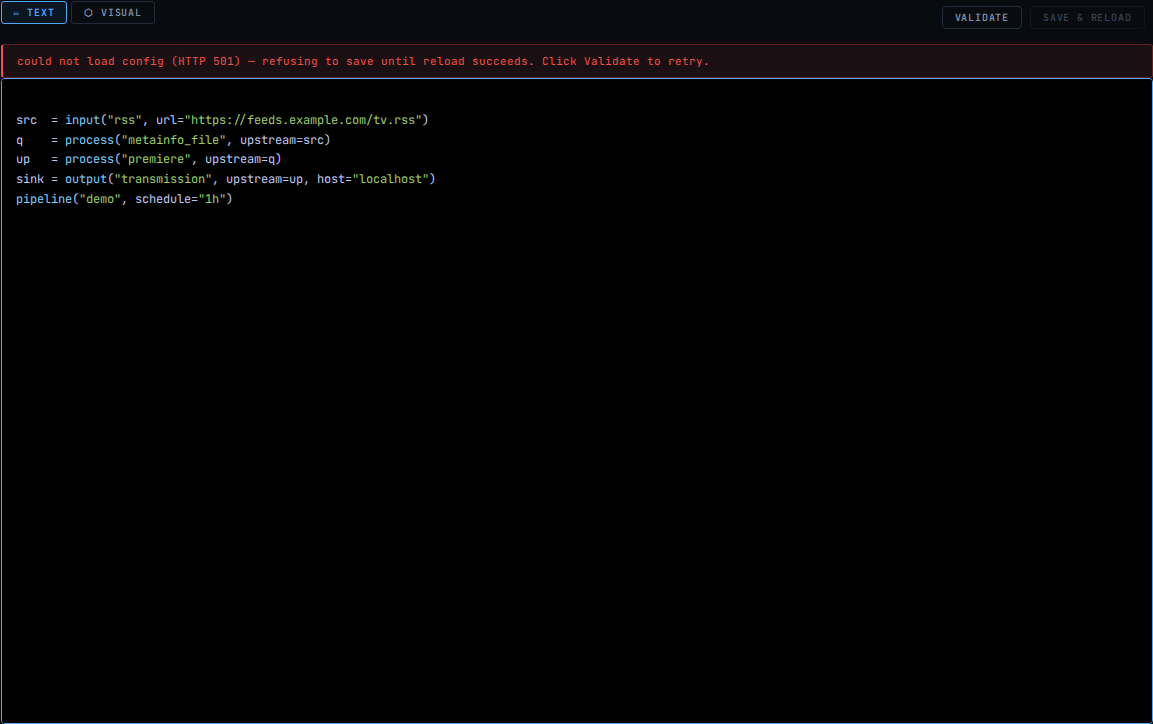
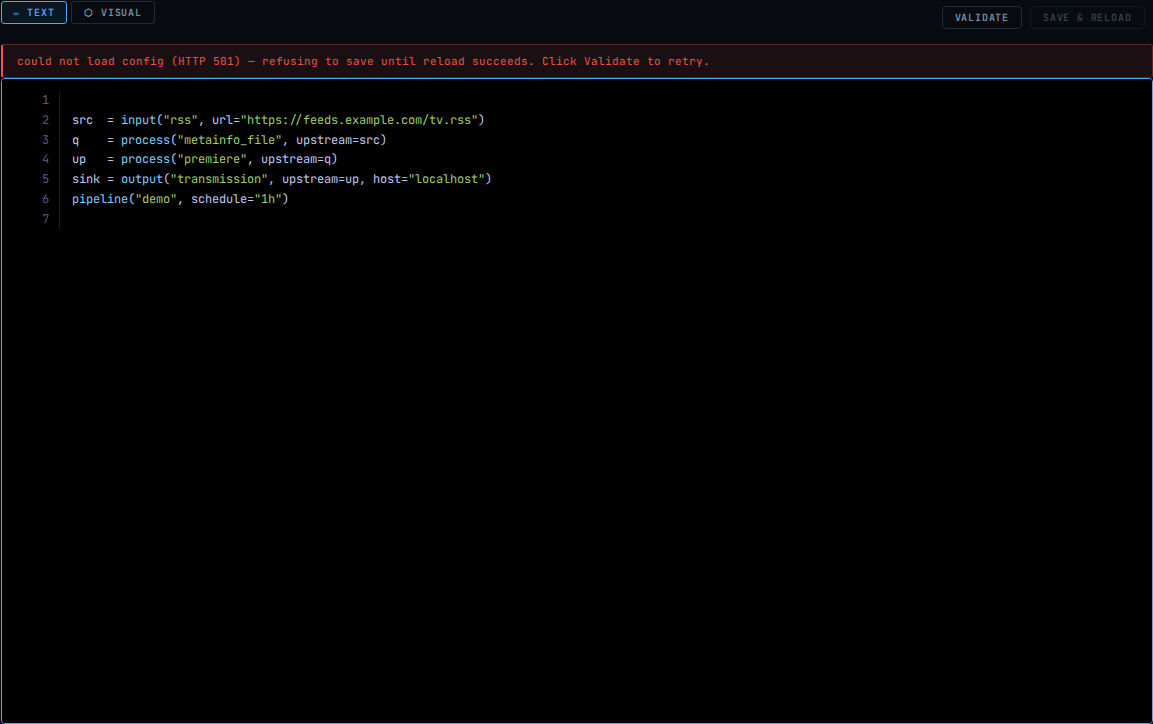
feat(web): line numbers in the config text editor
The text editor is a transparent textarea layered over a syntax-highlighted
<pre>. Render the highlight layer as one flex row per line — a right-aligned
number cell plus the highlighted code — so a line number stays pinned to its
line even when a long line soft-wraps across several visual rows (the number
sits at the top of the wrapped block, continuation lines align under the code
column). The gutter lives in the highlight layer (transparent to pointer
events, behind the textarea), so numbers are never selectable and never end
up in a copy; the textarea gets a matching left padding so the caret aligns
with the code column.

No per-keystroke measurement — wrapping alignment falls out of the flex
layout. Adds highlightStarlarkLines + tests, and regenerates the text-editor
screenshot.

Claude-Session: https://claude.ai/code/session_015UppT9Xa22dM5MgsHkwSXY

Changed region(s): [[0.0, 0.1519, 0.4059, 0.3039]]

diff --git a/internal/web/ui/tests/highlight.test.js b/internal/web/ui/tests/highlight.test.js
@@ -14,16 +14,52 @@ const src = readFileSync(join(__dir, '..', 'highlight.js'), 'utf8');
 
 // Extract the two functions we need by evaluating the source.
 // The file uses plain 'use strict' globals so we wrap it.
-let highlightStarlark, hlStarlarkLine;
+let highlightStarlark, hlStarlarkLine, highlightStarlarkLines;
 beforeAll(() => {
   const mod = new Function(
     'exports',
-    src + '\nexports.highlightStarlark = highlightStarlark;\nexports.hlStarlarkLine = hlStarlarkLine;'
+    src + '\nexports.highlightStarlark = highlightStarlark;\nexports.hlStarlarkLine = hlStarlarkLine;' +
+    '\nexports.highlightStarlarkLines = highlightStarlarkLines;'
   );
   const exports = {};
   mod(exports);
-  highlightStarlark = exports.highlightStarlark;
-  hlStarlarkLine    = exports.hlStarlarkLine;
+  highlightStarlark      = exports.highlightStarlark;
+  hlStarlarkLine         = exports.hlStarlarkLine;
+  highlightStarlarkLines = exports.highlightStarlarkLines;
+});
+
+describe('highlightStarlarkLines (line-number gutter)', () => {
+  it('emits one flex row per source line with a 1-based number', () => {
+    const html = highlightStarlarkLines('a = 1\nb = 2\nc = 3');
+    const rows = html.match(/<div class="hl-line">/g) || [];
+    expect(rows.length).toBe(3);
+    expect(html).toContain('<span class="ln">1</span>');
+    expect(html).toContain('<span class="ln">2</span>');
+    expect(html).toContain('<span class="ln">3</span>');
+  });
+
+  it('numbers a trailing empty line so it matches the textarea', () => {
+    const html = highlightStarlarkLines('x = 1\n');
+    expect((html.match(/<div class="hl-line">/g) || []).length).toBe(2);
+    expect(html).toContain('<span class="ln">2</span>');
+  });
+
+  it('keeps the highlighted code inside a .code cell', () => {
+    const html = highlightStarlarkLines('input("rss")');
+    expect(html).toContain('<span class="code">');
+    expect(html).toContain('y-builtin'); // "input" still highlighted
+  });
+
+  it('renders an empty line as an empty code cell (row height from the number)', () => {
+    const html = highlightStarlarkLines('a\n\nb');
+    expect(html).toContain('<span class="ln">2</span><span class="code"></span>');
+  });
+
+  it('escapes HTML in the code so markup in strings cannot break out', () => {
+    const html = highlightStarlarkLines('body="<img src=x>"');
+    expect(html).not.toContain('<img src=x>');
+    expect(html).toContain('&lt;img');
+  });
 });
 
 describe('highlightStarlark', () => {

diff --git a/internal/web/ui/highlight.js b/internal/web/ui/highlight.js
@@ -111,9 +111,28 @@ function hlStarlarkLine(line) {
   return out;
 }
 
+// highlightStarlarkLines renders the source as one flex row per line — a
+// right-aligned line-number cell plus the highlighted code — so line numbers
+// stay pinned to their line even when a long line soft-wraps across several
+// visual rows (the number sits at the top of the wrapped block). Because the
+// gutter lives inside the highlight layer (which is transparent to pointer
+// events and behind the textarea), the numbers are never selectable and never
+// end up in a copy. The matching left padding on the textarea keeps the caret
+// aligned with the code column — see .editor-ta padding-left in style.css.
+function highlightStarlarkLines(text) {
+  _inTriple = false; _tripleQ = '';
+  const lines = text.split('\n');
+  let out = '';
+  for (let i = 0; i < lines.length; i++) {
+    out += '<div class="hl-line"><span class="ln">' + (i + 1) +
+           '</span><span class="code">' + hlStarlarkLine(lines[i]) + '</span></div>';
+  }
+  return out;
+}
+
 function syncHighlight() {
   const ta = document.getElementById('config-editor');
-  document.getElementById('editor-hl').innerHTML = highlightStarlark(ta.value);
+  document.getElementById('editor-hl').innerHTML = highlightStarlarkLines(ta.value);
   syncScroll(); // re-sync height and scroll position after content changes
 }
 

diff --git a/internal/web/ui/style.css b/internal/web/ui/style.css
@@ -924,6 +924,33 @@ body.dark {
   resize: none;   /* height is managed by fitTextEditor() */
   z-index: 1;
   overflow-y: auto;
+  /* Shift the text right so the caret lines up with the code column in the
+     highlight layer: 14px editor pad + 44px gutter + 12px code pad. The gutter
+     region (0–58px) is textarea padding, so it holds no text and can't be
+     selected. Keep in sync with .editor-hl .ln width + .editor-hl .code pad. */
+  padding-left: 70px;
+}
+/* Line-number gutter: one flex row per source line, rendered inside the
+   (transparent, pointer-events:none) highlight layer. */
+.editor-hl .hl-line { display: flex; align-items: flex-start; }
+.editor-hl .ln {
+  flex: 0 0 44px;
+  width: 44px;
+  box-sizing: border-box;
+  padding-right: 10px;
+  text-align: right;
+  border-right: 1px solid var(--border);
+  color: var(--code-comment);
+  opacity: 0.65;
+  user-select: none;
+  -webkit-user-select: none;
+}
+.editor-hl .code {
+  flex: 1 1 auto;
+  min-width: 0;
+  padding-left: 12px;
+  white-space: pre-wrap;
+  word-wrap: break-word;
 }
 /* Starlark token colours — use --code-* variables defined in :root.
    These are never overridden in the light-mode block because the code
